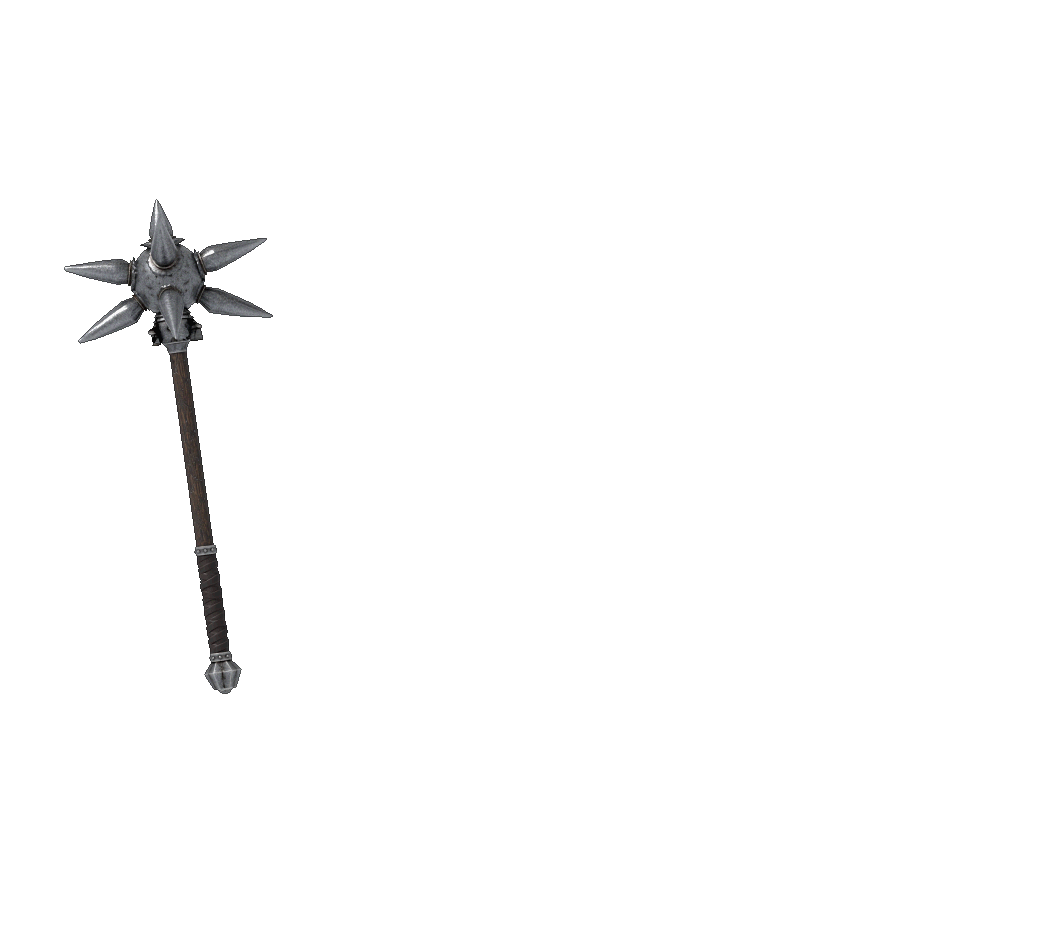
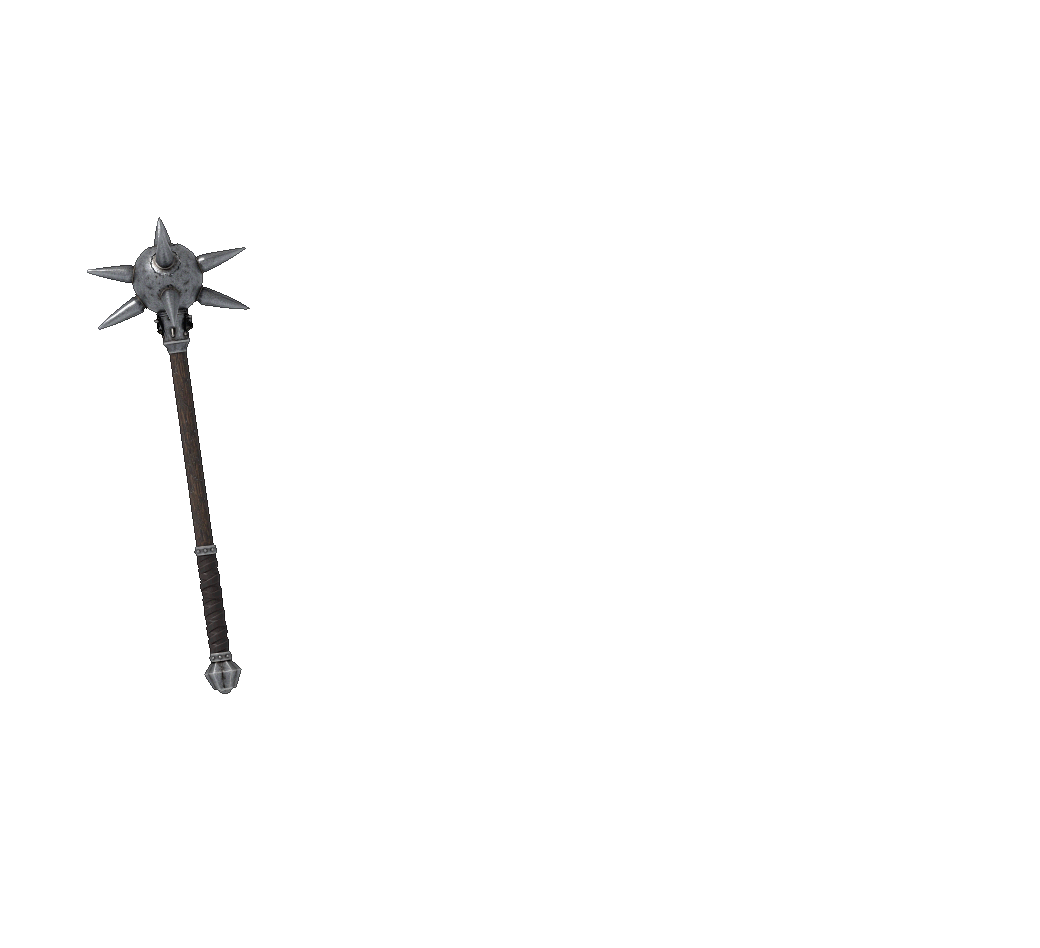
UOModel3D: mace2h paperdoll spikes 30% smaller, outline from neighbouring colours instead of black
Claude-Session: https://claude.ai/code/session_01CzhEnGTatDmwff3sx4yBA7

Changed region(s): [[0.0615, 0.2141, 0.2769, 0.3671]]

diff --git a/pipeline/uo_render_mace2h_gump_orig.py b/pipeline/uo_render_mace2h_gump_orig.py
@@ -6,7 +6,7 @@
 Same pictures as uo_render_mace2h_gump.py (gump 260 x 237, 90.5 px/m, the fist of body gump 12 / 13, variants down = the ball on the floor at the feet and up = the fist at the middle of the weapon,
 art on the ground seen from above), but the model is imported from the .glb, scaled so that it is LENGTH m long (butt to the tips of the spikes), turned (shaft along the axis, ball up), and
 rendered with its own PBR materials (Cycles, a sun from the upper left like the UO light, a soft world light, EXPOSURE) at SS x the resolution, then averaged down (alpha: opaque from 50 %),
-a dark rim and the 15-bit colours of the client. The spikes may be enlarged for the gump (SPIKE_LEN, SPIKE_WIDTH, 1 = the original). Writes the same files as the other script (gump_*_{down,up}.png/.bin,
+a dark outline (from the neighbouring colours, not black) and the 15-bit colours of the client. The spikes may be enlarged for the gump (SPIKE_LEN, SPIKE_WIDTH, 1 = the original). Writes the same files as the other script (gump_*_{down,up}.png/.bin,
 *_hd.png, *_preview.png, art.png, art_mirror.png).
 """
 import os, sys
@@ -26,10 +26,10 @@ EXPOSURE = 0.2               # the glb's textures are dark (the item of the anim
 CONTRAST = 1.3               # the render's contrast about the middle grey, a little more than the render: the pictures of the client are crisp
 SUN = 3.2                    # strength of the sun (from the upper left, in front: the UO light), WORLD = the soft light from everywhere
 WORLD = 0.9
-SPIKE_LEN = 1.15             # the spikes' length x this (1 = the original) and
-SPIKE_WIDTH = 2.2            # their width x this: the original's are tiny at 90 px/m
-OUTLINE = 0.5                # the edge pixels (next to transparency) x this
-RIM = 16.0                   # art: the dark rim's grey level
+SPIKE_LEN = 0.9              # the spikes' length x this (1 = the original) and
+SPIKE_WIDTH = 1.55           # their width x this: the original's are tiny at 90 px/m
+OUTLINE = 0.55               # the edge pixels (next to transparency): the mean colour of their inner neighbours x this
+RIM = 0.45                   # art: the ring outside the item: the mean colour of the neighbouring pixels x this
 HD_SCALE = 4                 # the large weapon-only pictures (gump_*_hd.png) at this x the gump's resolution (0 = none)
 
 
@@ -51,21 +51,36 @@ def setup(sc):
     return cam
 
 
+def neigh_mean(rgb, ok):
+    """mean colour of the 8 neighbours where ok (and how many there are)"""
+    H, Wd = ok.shape; acc = np.zeros(rgb.shape); n = np.zeros((H, Wd))
+    po = np.pad(ok, 1); pr = np.pad(rgb, ((1, 1), (1, 1), (0, 0)))
+    for dy in (-1, 0, 1):
+        for dx in (-1, 0, 1):
+            if dy or dx:
+                o = po[1 + dy:1 + dy + H, 1 + dx:1 + dx + Wd]
+                acc += pr[1 + dy:1 + dy + H, 1 + dx:1 + dx + Wd] * o[..., None]; n += o
+    return acc / np.maximum(n, 1)[..., None], n
+
+
 def grade(a, outline=OUTLINE, rim=None):
-    """float RGBA (display values) -> uint8 RGBA: contrast about the mid grey, a dark edge, the client's 15-bit colours; rim: a grey level for the pixels next to the item"""
+    """float RGBA (display values) -> uint8 RGBA: contrast about the mid grey, an outline darkened from the colours of the neighbouring pixels (never black), the client's 15-bit colours;
+    rim: art only, one more ring of pixels outside the item, from the colours of its edge pixels"""
     m = a[..., 3] > 0
     rgb = (a[..., :3] * 255.0 - 128.0) * CONTRAST + 128.0
+    rgb = np.where(m[..., None], rgb, 0.0)
     if outline < 1:
         pad = np.pad(m, 1)
         edge = m & ~(pad[:-2, 1:-1] & pad[2:, 1:-1] & pad[1:-1, :-2] & pad[1:-1, 2:])
-        rgb[edge] *= outline
-    q = (np.clip(np.round(rgb), 8, 255).astype(np.int32) >> 3) << 3
+        nm, n = neigh_mean(rgb, m & ~edge)
+        rgb[edge] = np.where((n > 0)[edge, None], nm[edge], rgb[edge]) * outline
     out = np.zeros(a.shape[:2] + (4,), np.uint8)
-    out[..., :3] = np.where(m[..., None], q, 0); out[..., 3] = np.where(m, 255, 0)
+    out[..., :3] = np.where(m[..., None], (np.clip(np.round(rgb), 8, 255).astype(np.int32) >> 3) << 3, 0); out[..., 3] = np.where(m, 255, 0)
     if rim is not None:
         pad = np.pad(m, 1)
         ring = ~m & (pad[:-2, 1:-1] | pad[2:, 1:-1] | pad[1:-1, :-2] | pad[1:-1, 2:])
-        out[ring, :3] = (int(rim) >> 3) << 3; out[ring, 3] = 255
+        nm, n = neigh_mean(rgb, m)
+        out[ring, :3] = (np.clip(np.round(nm[ring] * rim), 8, 255).astype(np.int32) >> 3) << 3; out[ring, 3] = 255
     return out
 
 
@@ -102,7 +117,7 @@ def main(src, out):
             if not any(float(u[i] @ ax) > 0.95 for ax in axes):
                 axes.append(u[i].copy())
         A = np.array(axes) if axes else np.zeros((0, 3))
-        print("OG: %d spikes found" % len(A))
+        print("OG: %d spikes found, rb %.3f, tip distance from the ball centre %s" % (len(A), rb, np.round(np.sort(dist[ball & (dist > rb * 1.5)])[-5:], 3).tolist()))
         if len(A):
             cs = u @ A.T; k = cs.argmax(1); near = cs.max(1) > 0.93
             msk = ball & near & (dist > rb)

diff --git a/model/items/mace2h/README.md b/model/items/mace2h/README.md
@@ -28,4 +28,4 @@ What the recipe does (every setting is described in the header of `pipeline/uo_m
 - **Paperdoll gumps and art (`paperdoll/`, `pipeline/uo_render_mace2h_gump.py`):** gump 260 x 237 for the male (body gump 12) and the female (13) body, each in two variants: `down` = the ball DOWN resting on the floor at the height of the feet (the lowest spike at y 220), the haft upright leaning 4 deg out, the butt 0.17 m over the fist; `up` = the ball UP, the fist at the middle of the whole weapon (grip 0.67 m above the butt), the haft leaning 8 deg out, the ball at head height. The wood under the body gump's fist is cut out so the fist holds it; `*_preview.png` = the gump over the client's body gump. Art (backpack icon, art.mul): `art.png` 47 x 44 px, the weapon lying on the ground seen from above (haft along the diagonal), `art_mirror.png` its mirror; `.bin` = the mul entries. Needs the client's Gumpart.mul / Gumpidx.mul (not in the repo).
 
 - **Paperdoll, second pass:** rendered 6 x supersampled (was 3), the spikes 30% shorter on the gump and art (`SPIKE_SCALE` 0.7: at 90 px/m the animation's long spikes were too big), the metal's contrast raised (`METAL_CONTRAST` 1.9 over its local 5 x 5 mean, `METAL_LEVELS` 22 / 100 / 205) so that every spike has a lit and a dark side; `gump_*_hd.png` = the weapon alone rendered at 4 x the gump's resolution (1040 x 948, not quantized to the client's palette, for reference or a larger gump).
-- **Paperdoll, third pass = from the ORIGINAL model (`pipeline/uo_render_mace2h_gump_orig.py MODEL.glb OUT`):** the pictures in `paperdoll/` are now rendered from the Meshy .glb itself (99k vertices, its own PBR textures, Cycles 48 samples, sun from the upper left, 4 x supersampled) instead of the animation's item; same layout/files as before (art 45 x 42). The original's spikes are tiny and thin at 90 px/m, so each of the 12 tip clusters is enlarged about its own axis (`SPIKE_LEN` 1.15, `SPIKE_WIDTH` 2.2), exposure 0.2, contrast 1.3. The previous item-based renders come from `uo_render_mace2h_gump.py`.
+- **Paperdoll, third pass = from the ORIGINAL model (`pipeline/uo_render_mace2h_gump_orig.py MODEL.glb OUT`):** the pictures in `paperdoll/` are now rendered from the Meshy .glb itself (99k vertices, its own PBR textures, Cycles 48 samples, sun from the upper left, 4 x supersampled) instead of the animation's item; same layout/files as before (art 45 x 42). The original's spikes are tiny and thin at 90 px/m, so each of the 12 tip clusters is enlarged about its own axis (`SPIKE_LEN` 0.9, `SPIKE_WIDTH` 1.55: 30% smaller than the first try), exposure 0.2, contrast 1.3. The outline (and the art's outer ring) is the mean colour of the neighbouring pixels x 0.55 / 0.45, never true black. The previous item-based renders come from `uo_render_mace2h_gump.py`.
